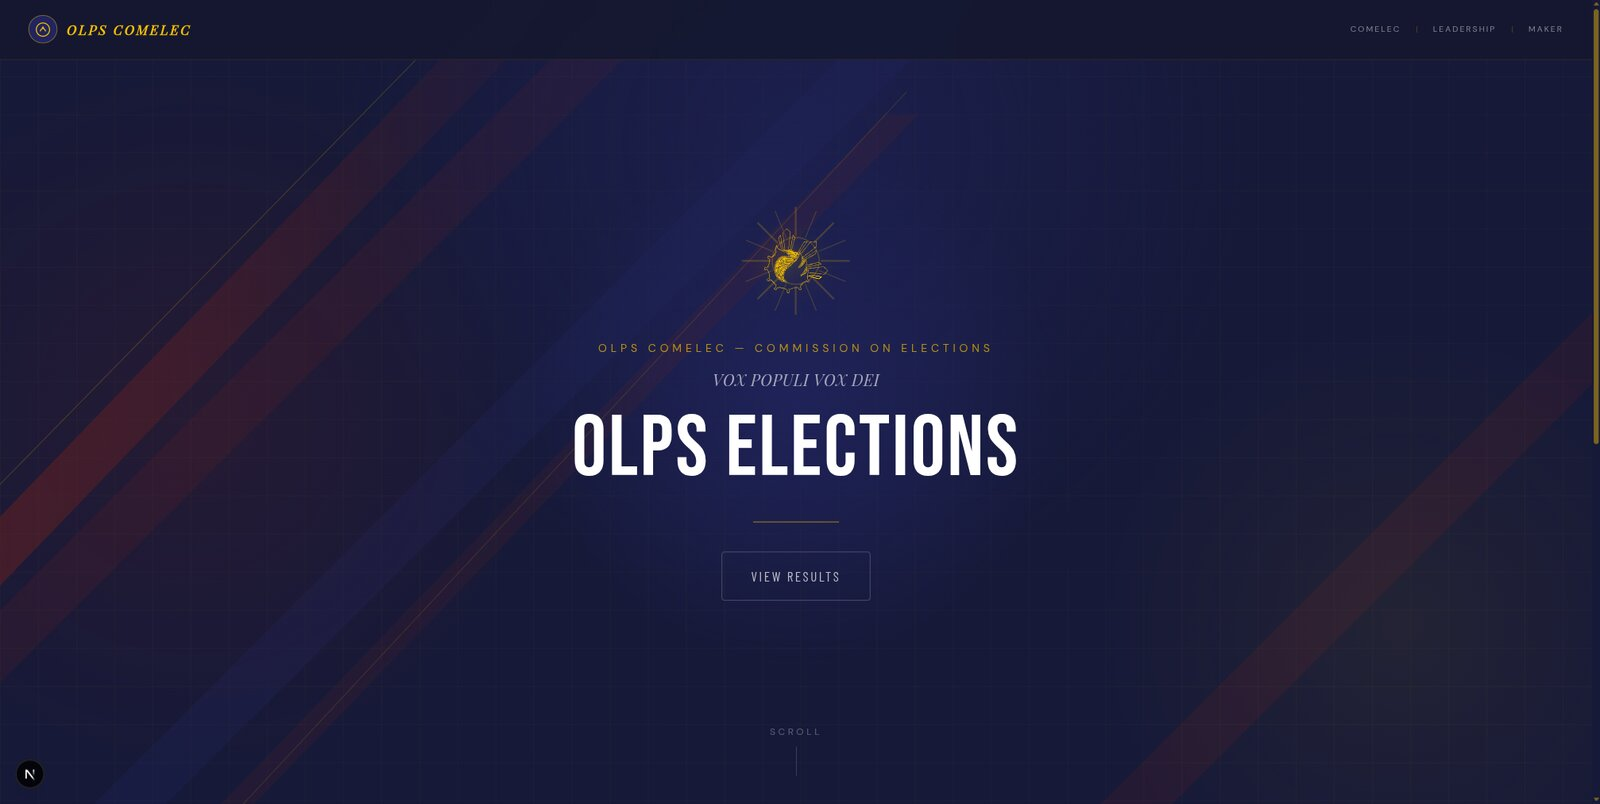
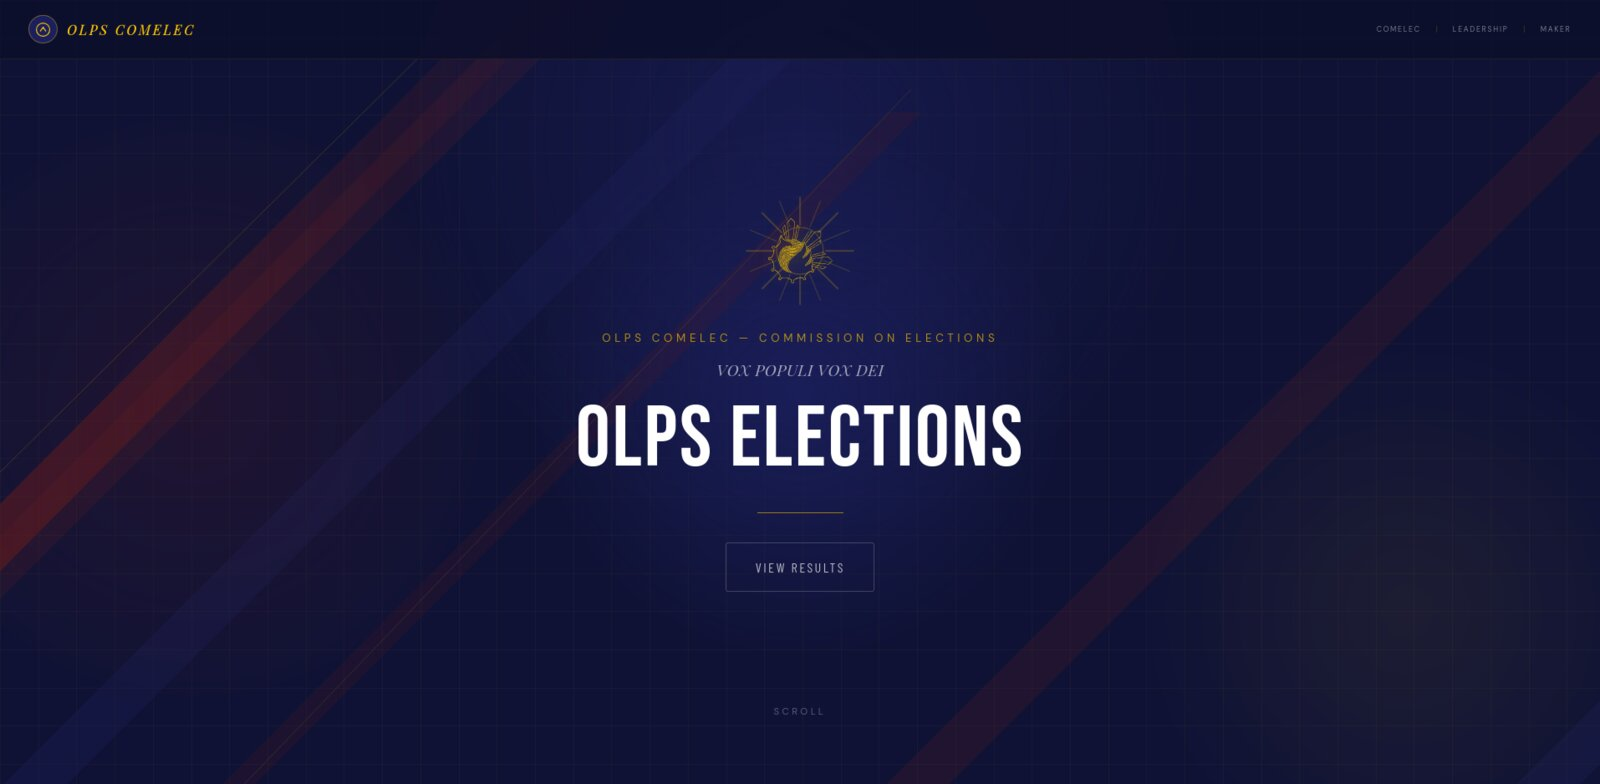
feat: replace halal showcase with user screenshots + pipeline diagram
Swaps the four halal. media items for the project owner's own fresh
screenshots (voter homepage, admin dashboard, "about the maker") plus
an original pipeline.svg diagramming the app's setup -> vote -> certify
lifecycle, styled to match mnemo's pipeline diagram. Replaces the
previous results/monitor/control screenshots and admin-session-derived
control panel crop.

diff --git a/js/projects.js b/js/projects.js
@@ -22,9 +22,9 @@ const PROJECTS_DATA = {
       ],
       media: [
         { src: 'public/projects/halal/hero.jpg', caption: 'Voter homepage' },
-        { src: 'public/projects/halal/results.jpg', caption: 'Public results & receipt verification' },
-        { src: 'public/projects/halal/monitor.png', caption: 'Live results monitor' },
-        { src: 'public/projects/halal/control.png', caption: 'Election control panel' },
+        { src: 'public/projects/halal/dashboard.png', caption: 'Admin elections dashboard' },
+        { src: 'public/projects/halal/maker.jpg', caption: 'About the maker' },
+        { src: 'public/projects/halal/pipeline.svg', caption: 'Setup → vote → certify pipeline' },
       ],
     },
     {

diff --git a/public/README.md b/public/README.md
@@ -10,11 +10,11 @@ public/
   resume/
     resume.pdf          — restored from git history (see below)
   projects/
-    halal/               — screenshots of github.com/disposably-mono/halal.
-      hero.jpg             Voter homepage
-      results.jpg           Public "Final Results" page (audit fingerprint + receipt verification)
-      monitor.png            Live results / turnout monitor (admin)
-      control.png              Election status & schedule panel (admin)
+    halal/               — github.com/disposably-mono/halal.
+      hero.jpg             Voter homepage screenshot
+      dashboard.png         Admin elections dashboard screenshot
+      maker.jpg               "About the maker" screenshot
+      pipeline.svg               Hand-authored diagram of the setup -> vote -> certify lifecycle
     mnemo/                — github.com/disposably-mono/Mnemo-Skill
       pipeline.svg          Hand-authored diagram of the ingest -> ... -> sync pipeline
       terminal-ingest.svg     Mocked terminal output for `mnemo-ingest`
@@ -28,16 +28,12 @@ source of truth; this README just explains where the pixels came from.
 
 ## Provenance
 
-- **halal/** screenshots are real app screenshots, captured by firing up
-  the `halal.` repo locally (`docker compose up -d` for its Postgres db,
-  then `npm run dev`) against its existing local dev data, rather than
-  reusing outdated screenshots from an earlier UI. The four selected avoid
-  showing student names, IDs, or officer identities — homepage and public
-  results/receipt-verification need no login at all; the admin monitor and
-  control views use elections that only ever had candidate names and vote
-  counts on screen, and control.png is cropped to drop the audit-trail
-  section (which lists officer emails). No real election was opened or
-  modified to get these; the container was stopped again afterward.
+- **halal/** hero/dashboard/maker are real app screenshots, taken by the
+  project owner from a local dev run of the `halal.` repo — none show
+  student names, IDs, or officer identities. pipeline.svg is an original
+  diagram (matching mnemo's style) of the app's own documented election
+  workflow, used in place of a fourth screenshot since casting a real
+  ballot for a screenshot needs Commissioner-level access.
 - **mnemo/** has no live web UI to screenshot (it's a Claude Code skill +
   CLI toolkit, not a webapp), so its visuals are original assets built for
   this portfolio: a pipeline diagram matching the README's documented
